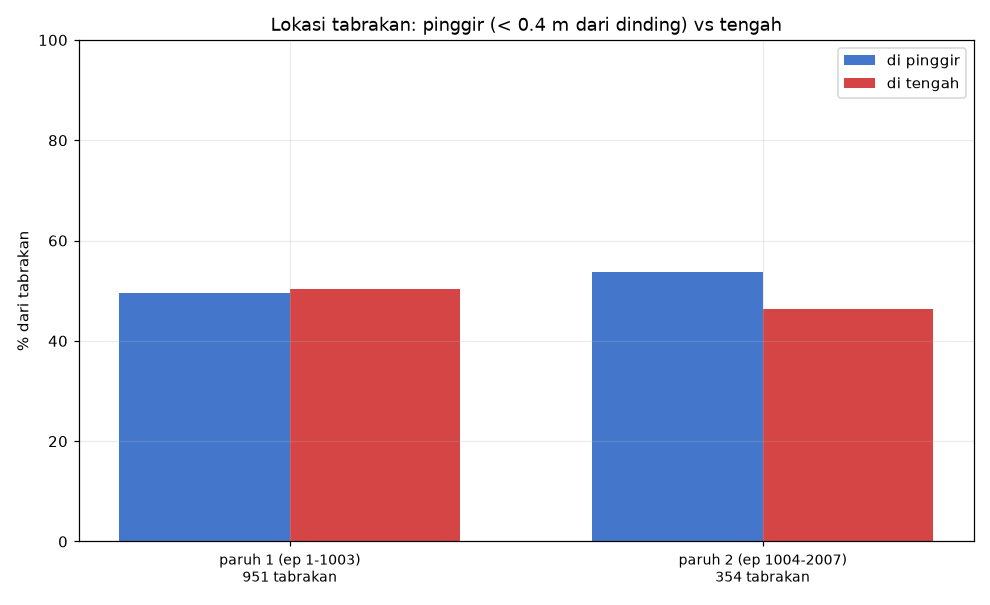
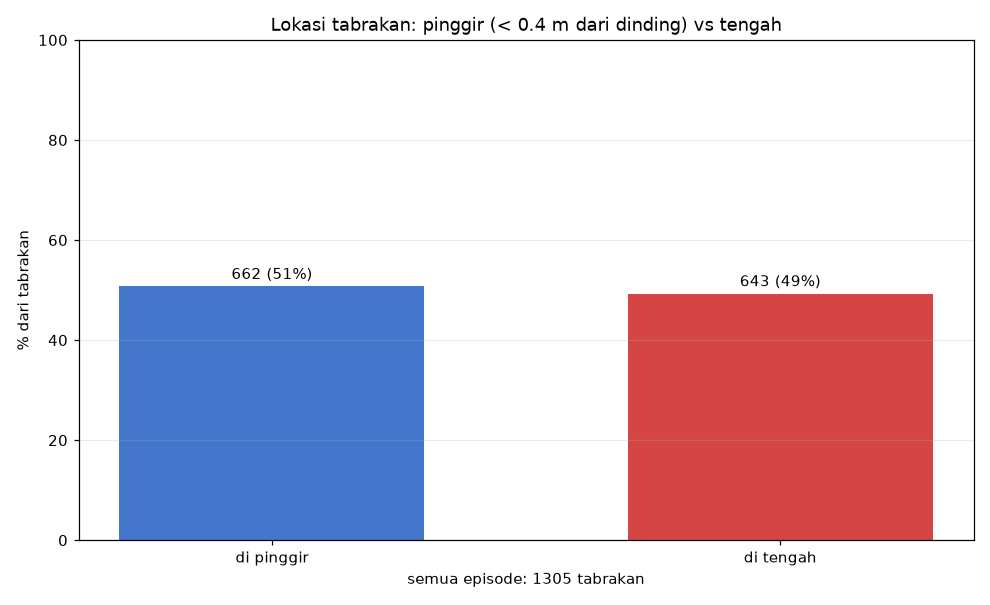
Webots continuous_qlearning: bar tabrakan pinggir vs tengah jadi satu
09_tabrakan_pinggir_tengah dan ringkasan.txt kini untuk semua episode
(tanpa pembagian paruh awal/akhir).

diff --git a/sim/webots/micromouse_webots/controllers/continuous_qlearning/analisis.py b/sim/webots/micromouse_webots/controllers/continuous_qlearning/analisis.py
@@ -196,27 +196,20 @@ def panel_edge_bar(ax, d, lay, edge):
     if d["x"] is None:
         ax.text(.5, .5, "log tanpa kolom end_x/end_y", transform=ax.transAxes, ha="center")
         return
-    n = len(d["ep"])
-    half = n // 2
-    wd = _wall_dist(d, lay)
-    labels, e_pct, i_pct = [], [], []
-    for name, sel in ((f"paruh 1 (ep {d['ep'][0]}-{d['ep'][max(half - 1, 0)]})", np.arange(n) < half),
-                      (f"paruh 2 (ep {d['ep'][half] if half < n else d['ep'][-1]}-{d['ep'][-1]})", np.arange(n) >= half)):
-        c = sel & (d["out"] == "collision")
-        k = int(c.sum())
-        pe = float((wd[c] < edge).mean() * 100) if k else 0.0
-        labels.append(f"{name}\n{k} tabrakan")
-        e_pct.append(pe)
-        i_pct.append(100 - pe if k else 0.0)
-    xs = np.arange(2)
-    ax.bar(xs - .18, e_pct, .36, color="#4477cc", label="di pinggir")
-    ax.bar(xs + .18, i_pct, .36, color="#d64545", label="di tengah")
-    ax.set_xticks(xs)
-    ax.set_xticklabels(labels, fontsize=9)
+    c = d["out"] == "collision"
+    k = int(c.sum())
+    n_edge = int((_wall_dist(d, lay)[c] < edge).sum())
+    n_mid = k - n_edge
+    pct = lambda v: v / k * 100 if k else 0.0
+    bars = ax.bar([0, 1], [pct(n_edge), pct(n_mid)], .6, color=["#4477cc", "#d64545"])
+    ax.set_xticks([0, 1])
+    ax.set_xticklabels(["di pinggir", "di tengah"])
+    for b, v in zip(bars, (n_edge, n_mid)):
+        ax.text(b.get_x() + b.get_width() / 2, b.get_height() + 1.5, f"{v} ({pct(v):.0f}%)", ha="center", fontsize=10)
     ax.set_ylabel("% dari tabrakan")
     ax.set_ylim(0, 100)
-    ax.legend()
-    ax.grid(alpha=.25)
+    ax.set_xlabel(f"semua episode: {k} tabrakan")
+    ax.grid(alpha=.25, axis="y")
 
 
 def heat_hist(d, lay, bins, sel):
@@ -255,13 +248,11 @@ def summary_lines(d, lay, W, edge):
          ""]
     if d["x"] is not None and cnt["collision"]:
         wd = _wall_dist(d, lay)
-        half = n // 2
-        L.append(f"TABRAKAN: pinggir (< {edge:g} m dari dinding) vs tengah")
-        for name, sel in (("paruh 1", np.arange(n) < half), ("paruh 2", np.arange(n) >= half)):
-            c = sel & (d["out"] == "collision")
-            kk = int(c.sum())
-            pi = int((c & (wd < edge)).sum())
-            L.append(f"  {name}: {kk} tabrakan, pinggir {pi} ({pi / kk * 100 if kk else 0:.0f}%), tengah {kk - pi}")
+        c = d["out"] == "collision"
+        kk = int(c.sum())
+        pi = int((wd[c] < edge).sum())
+        L.append(f"TABRAKAN: pinggir (< {edge:g} m dari dinding) vs tengah, semua episode")
+        L.append(f"  {kk} tabrakan: pinggir {pi} ({pi / kk * 100:.0f}%), tengah {kk - pi} ({(kk - pi) / kk * 100:.0f}%)")
         L.append("")
     L.append("EVALUASI GREEDY (epsilon 0)")
     L.append(f"  sampai target      : {lay['success']}/{lay['n']}")
